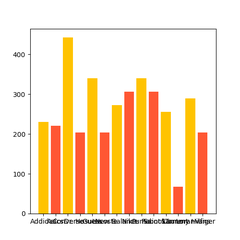
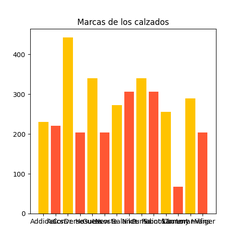
Cambios
Agregué una gráfica, modifique tamaños desde el qt para que no quedaran feo las graficas pequeñas de la derecha y cambié la gráfica de marcas para que los nombres no se pusieran encima del otro

Changed region(s): [[0.3208, 0.0583, 0.7, 0.1167]]

diff --git a/main.py b/main.py
@@ -297,6 +297,9 @@ class DashboardScreen(QMainWindow):
         self.regresarButton_12.clicked.connect(self.gotoMain)
         self.regresarButton_13.clicked.connect(self.gotoMain)
         resizePequeño = 240
+        resizePequeño2 = 250
+        resizeGrande1 = 511
+        resizeGrande2 = 351
 
         #Leer consulta de la base de datos
         con = sql.connect("cleanwalkers.db")
@@ -441,12 +444,14 @@ class DashboardScreen(QMainWindow):
         #Gráfica de barras
 
 
+        self.calzado_graphicsView_3.setStyleSheet("background-image: url(graficas/logo.jpg);")
         self.calzado_graphicsView_4.setStyleSheet("background-image: url(graficas/logo.jpg);")
         #scatter plot, fechaLlegada vs calzado en ese día
         self.calzado_graphicsView_5.setStyleSheet("background-image: url(graficas/logo.jpg);")
         self.calzado_graphicsView_6.setStyleSheet("background-image: url(graficas/logo.jpg);")
-        self.calzado_graphicsView_7.setStyleSheet("background-image: url(graficas/logo.jpg);")
         self.calzado_graphicsView_8.setStyleSheet("background-image: url(graficas/logo.jpg);")
+        
+
         #------------------------
         #calzado_graphicsView_1
         #------------------------
@@ -456,6 +461,7 @@ class DashboardScreen(QMainWindow):
         df = pd.DataFrame(result)
         df.columns = ["TipoCalzado", "Total"]
         plt.figure (figsize=(5,5))
+        plt.title("Tipos de Calzado")
         plt.pie(df["Total"], labels=df["TipoCalzado"], autopct="%1.1f%%", shadow=True, startangle=90)
         plt.axis("equal")
         plt.savefig("graficas/calzado1.png")
@@ -466,21 +472,59 @@ class DashboardScreen(QMainWindow):
         plt.close()
 
         #------------------------
-        #calzado_graphicsView_3
+        #calzado_graphicsView_4
         #------------------------
         #grafica de barras, con la marca de calzado y el total de calzado de esa marca
-        cursor.execute("SELECT Marca, COUNT(*) FROM calzado GROUP BY Marca")   
+        # cursor.execute("SELECT Marca, COUNT(*) FROM calzado GROUP BY Marca")
+        # result = cursor.fetchall()
+        # df = pd.DataFrame(result)
+        # df.columns = ["Marca", "Total"]
+        # plt.figure (figsize=(5,5))
+        # plt.title("Marcas de los calzados")
+        # plt.bar(df["Marca"], df["Total"], color=["#FFC300", "#FF5733"])
+        # plt.savefig("graficas/calzado4.png")
+        # img = Image.open("graficas/calzado4.png")
+        # img = img.resize((resizeGrande1,resizeGrande2), Image.ANTIALIAS)
+        # img.save("graficas/calzado4.png")
+        # #self.calzado_graphicsView_4.setStyleSheet("background-image: url(graficas/calzado4.png);")
+        # plt.close()
+        cursor.execute("SELECT Marca, COUNT(*) AS CNT FROM calzado GROUP BY Marca")
+        result = cursor.fetchall()
+        df = pd.DataFrame(result) 
+        df.columns = ["Marca", "Total"] 
+        #inclinar los nombres
+        plt.yticks(rotation=45)
+        plt.title("Servicios por Marca")
+        sns.barplot(x="Total", y="Marca", data=df, palette="cividis")
+        plt.savefig("graficas/calzado4.png")
+        img = Image.open("graficas/calzado4.png")
+        img = img.resize((resizeGrande1,resizeGrande2), Image.ANTIALIAS)
+        img.save("graficas/calzado4.png")
+        self.calzado_graphicsView_4.setStyleSheet("background-image: url(graficas/calzado4.png);")
+        plt.close()
+
+
+        #------------------------
+        #calzado_graphicsView_7
+        #------------------------
+        #grafica pastel sobre el tipo de calzado
+        cursor.execute("SELECT ServicioContratado, COUNT(*) FROM calzado GROUP BY ServicioContratado")
         result = cursor.fetchall()
         df = pd.DataFrame(result)
-        df.columns = ["Marca", "Total"]
+        df.columns = ["ServicioContratado", "Total"]
         plt.figure (figsize=(5,5))
-        plt.bar(df["Marca"], df["Total"], color=["#FFC300", "#FF5733"])
-        plt.savefig("graficas/calzado3.png")
-        img = Image.open("graficas/calzado3.png")
-        img = img.resize((resizePequeño,resizePequeño), Image.ANTIALIAS)
-        img.save("graficas/calzado3.png")
-        self.calzado_graphicsView_3.setStyleSheet("background-image: url(graficas/calzado3.png);")
+        plt.title("Servicios contratados")
+        plt.pie(df["Total"], labels=df["ServicioContratado"], autopct="%1.1f%%", shadow=True, startangle=90)
+        plt.axis("equal")
+        plt.savefig("graficas/calzado7.png")
+        img = Image.open("graficas/calzado7.png")
+        img = img.resize((resizePequeño2,resizePequeño2), Image.ANTIALIAS)
+        img.save("graficas/calzado7.png")
+        self.calzado_graphicsView_7.setStyleSheet("background-image: url(graficas/calzado7.png);")
         plt.close()
+
+        
+
 
         self.empleados_graphicsView_1.setStyleSheet("background-image: url(graficas/logo.jpg);")
         self.empleados_graphicsView_3.setStyleSheet("background-image: url(graficas/logo.jpg);")
